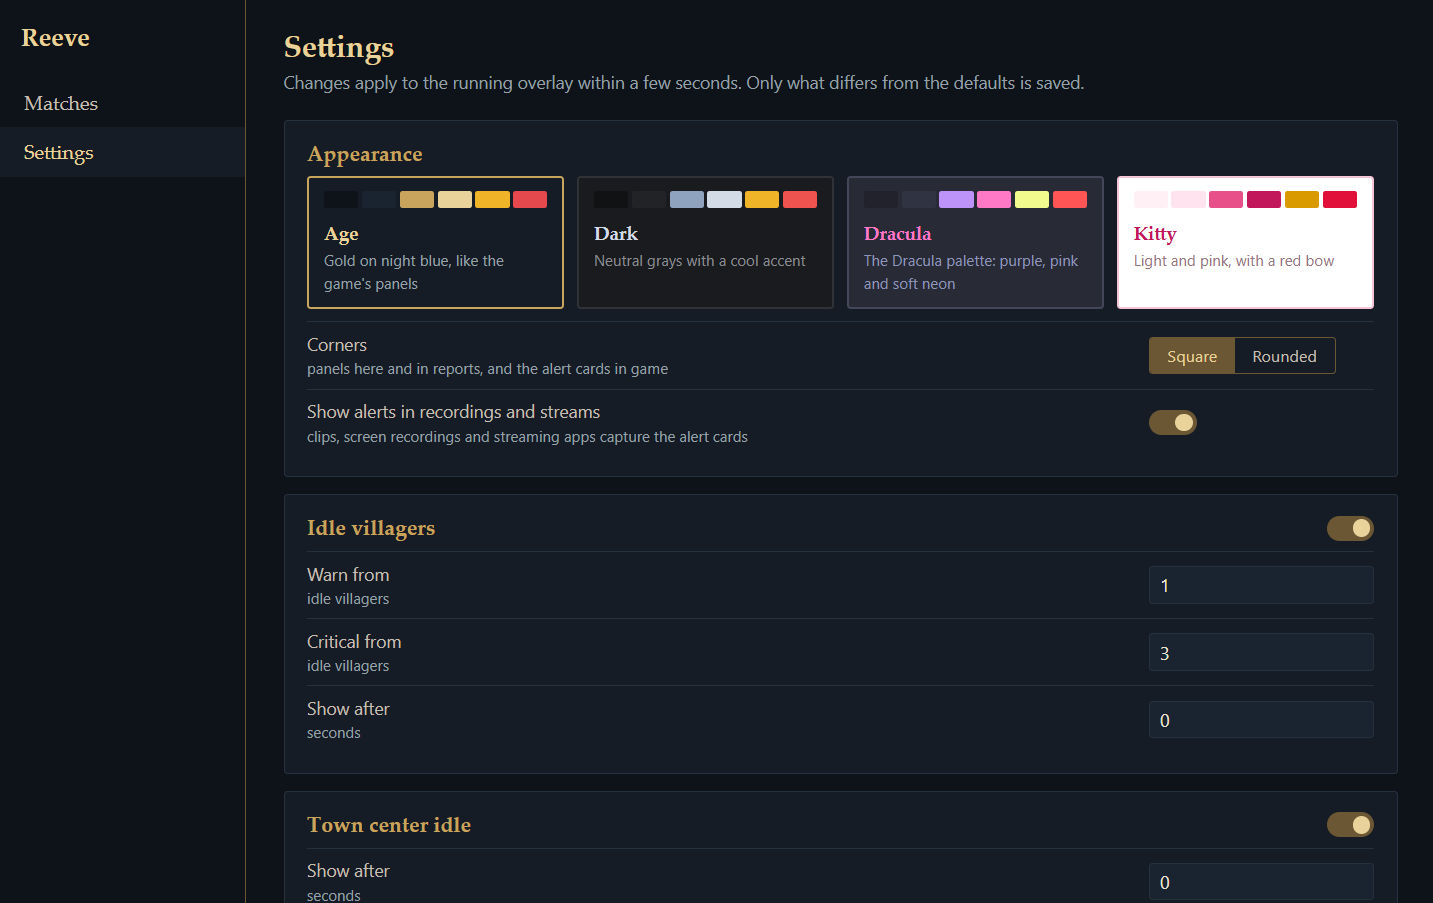
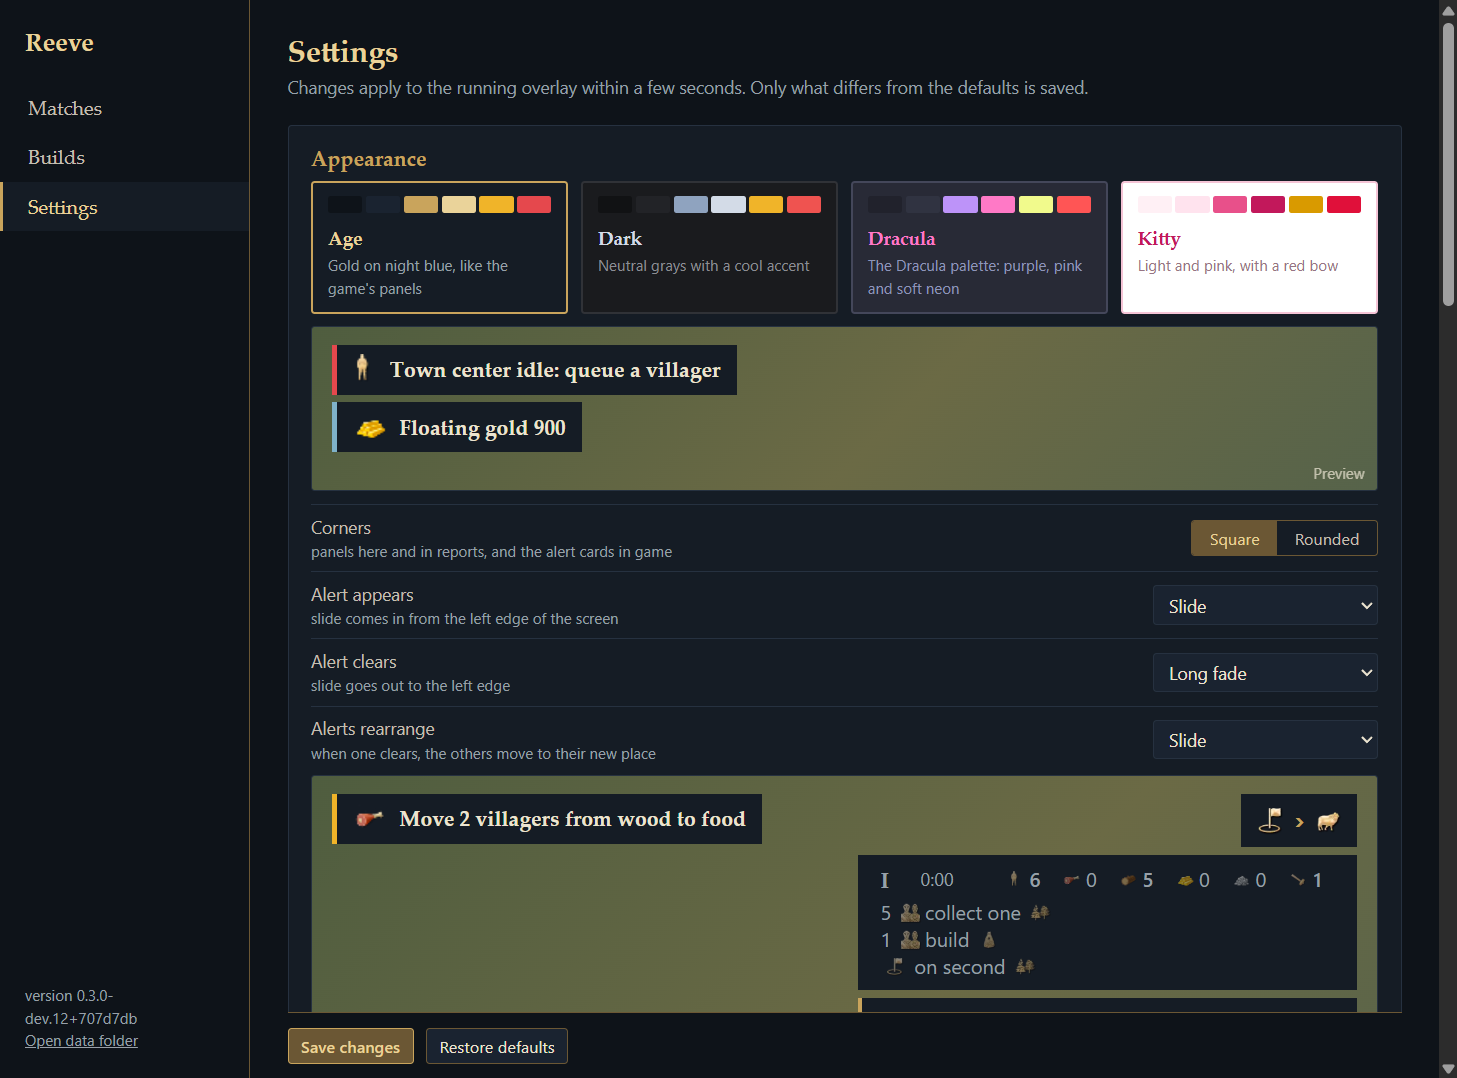
README screenshots for 0.3.0; screenshots are checked at every release
New captures of the match list (flags), the Builds page, the build panel,
settings and the report. The release pipeline and the release agent now
include checking the screenshots before the release PR.

diff --git a/scripts/release.py b/scripts/release.py
@@ -118,7 +118,8 @@ def cmd_prepare(args) -> None:
     git("add", str(INIT), str(PYPROJECT), str(REPO / "uv.lock"), str(notes))
     git("commit", "-q", "-m", f"Version {new}\n\n{ATTRIBUTION}")
     git("push", "-q")
-    print(f"version {new} committed on unstable; write the notes in {notes.relative_to(REPO)}, commit, then run `pr`")
+    print(f"version {new} committed on unstable; write the notes in {notes.relative_to(REPO)}, check the README "
+          "screenshots (docs/screenshots) against the current UI and retake those that changed, commit, then run `pr`")
 
 
 def cmd_pr(_args) -> None:

diff --git a/README.md b/README.md
@@ -37,6 +37,8 @@ Import a build order from [aoe4guides.com](https://aoe4guides.com) by pasting it
 - The previous step stays for 10 seconds after a new step is reached, and the next step shows once you have been 10 seconds on the current one; both can be changed in the hub.
 - Every civilization is supported. The first time you use a build of a civilization, Reeve downloads that civilization's units, buildings and technologies with their icons from AoE4World.
 
+![The build panel: a villager alert, the rally point and three steps](docs/screenshots/build-panel.png)
+
 ### Match reports
 When a match ends, Reeve writes its report:
 
@@ -57,9 +59,11 @@ Double-click the tray icon to open the hub:
 - **Your sounds**: add any audio or video file as an alert sound.
 - **Appearance**: four themes for the hub, the reports and the alert cards (Age, Dark, Dracula and Kitty), with square or rounded corners. The alert cards show in your clips, recordings and streams; this can be turned off.
 
-| Matches | Settings |
+| Matches | Builds |
 |---|---|
-| ![Match history](docs/screenshots/hub-matches.png) | ![Settings](docs/screenshots/hub-settings.png) |
+| ![Match history](docs/screenshots/hub-matches.png) | ![Build orders](docs/screenshots/hub-builds.png) |
+
+![Settings](docs/screenshots/hub-settings.png)
 
 ### Tray menu
 Turn the overlay on or off, mute the sounds, open the hub, the last report or the data folder, and quit.

diff --git a/docs/DEVELOPMENT.md b/docs/DEVELOPMENT.md
@@ -60,4 +60,4 @@ The built-in sounds live in `assets/sounds/library/`; `scripts/import_sound.py <
 Income is the sum of the stockpile's increases over the last 60 s of game time, per minute, after a median-of-3 filter against single misreads. Spending is ignored, so a drop-off read together with a purchase is partly hidden and the estimate leans slightly low. Income per villager divides by the villagers on that resource.
 
 ## README screenshots
-`docs/screenshots/` holds the hub and report captures used in the README, taken from real matches with the default settings (a copy of the sessions in a temporary `REEVE_HOME`, so the user's settings do not show). Retake them when the UI changes noticeably.
+`docs/screenshots/` holds the hub and report captures used in the README, taken from real matches with the default settings (a copy of the sessions in a temporary `REEVE_HOME`, so the user's settings do not show). They are checked at every release, before the release PR, and those that changed are retaken; a feature that shows on screen gets its own. Captures are of Reeve's own windows (PrintWindow) or of its HTML rendered in a browser, never of the screen. `build-panel.png` is the hub's build panel preview.

diff --git a/.claude/agents/git-release.md b/.claude/agents/git-release.md
@@ -30,5 +30,6 @@ Builds for the maintainer to try: `uv run python scripts/build.py` writes `dist/
 - Commits use the maintainer's GitHub noreply address (already set in this repository's git config); never put a personal e-mail in files.
 - Run `uv run pytest -q` before committing code; CI (`.github/workflows/tests.yml`, Windows) must be green before a release PR is merged.
 - Release notes (`docs/releases/vX.Y.Z.md`) are written for players: New, Improved, Fixed, Install. Plain, professional, no technical justification.
+- Every release checks the README screenshots (`docs/screenshots/`) against the current UI before the release PR, and retakes those that changed (see `docs/DEVELOPMENT.md`, README screenshots); new features that show on screen get one.
 - Changes to `.github/workflows/` need the `workflow` scope on the gh token (`gh auth refresh -s workflow`).
 - When a step needs the maintainer (merging, repository settings, branch protection), stop and say exactly what to do.
